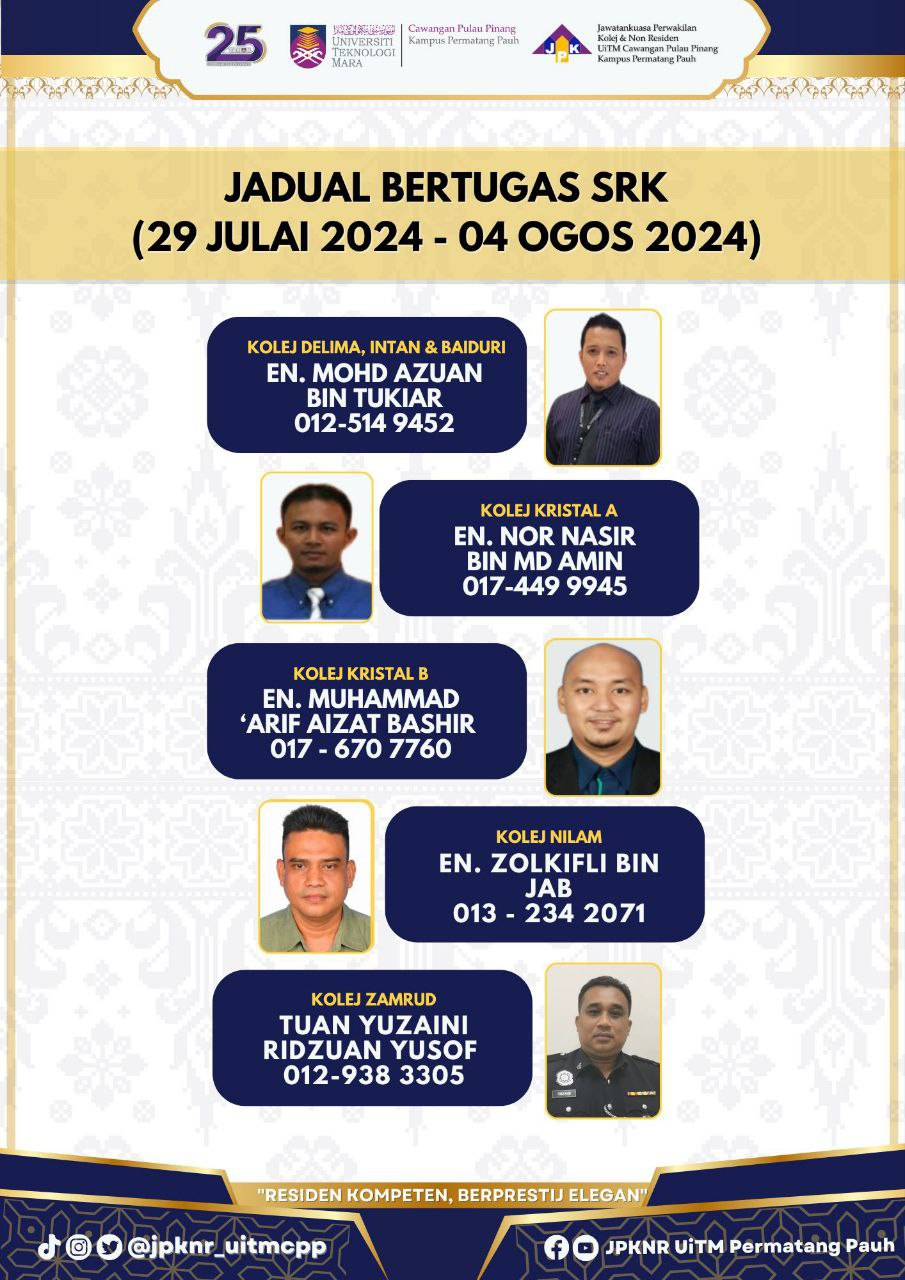
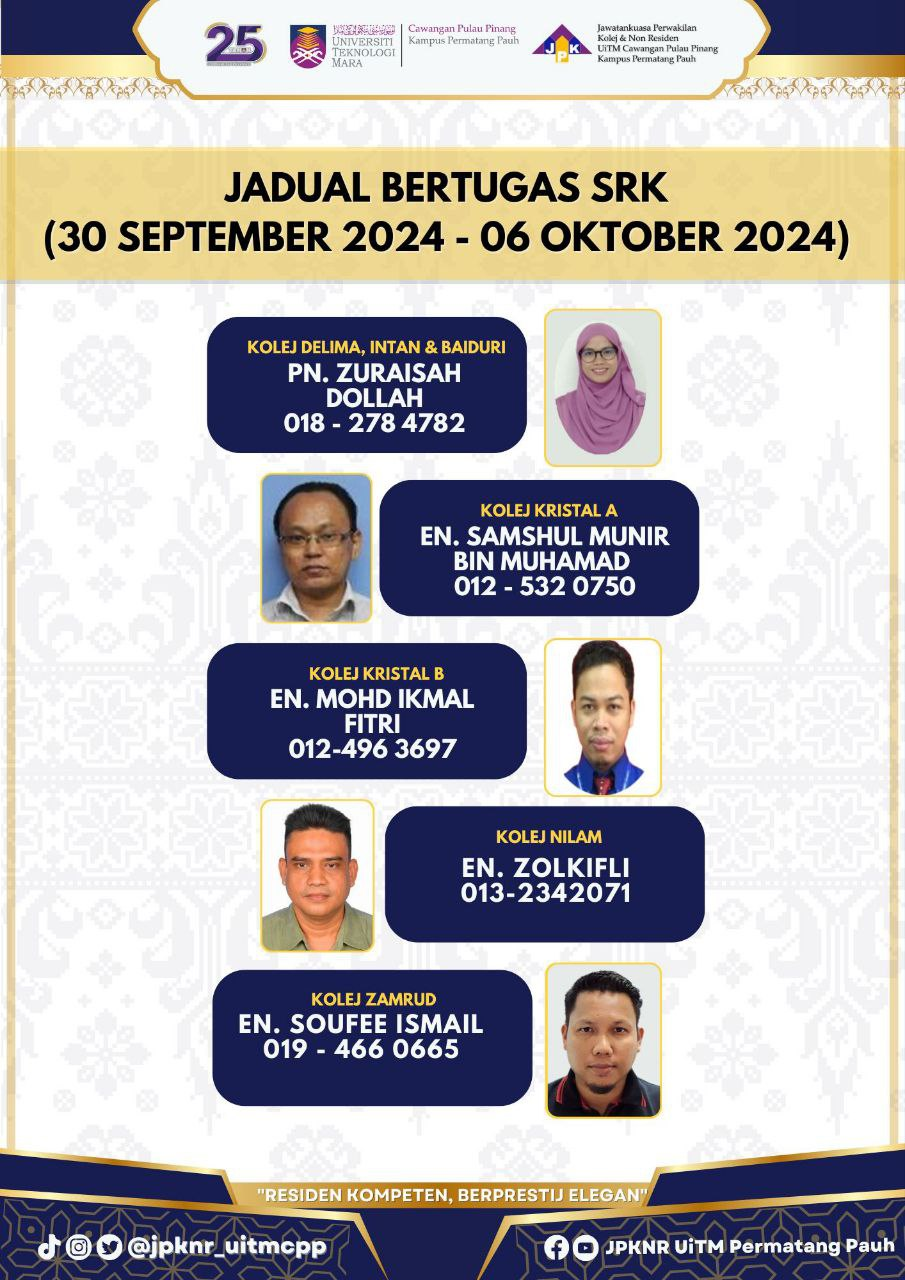
Add files via upload

diff --git a/index.html b/index.html
@@ -230,22 +230,22 @@
         </thead>
         <tbody>
             <tr>
-                <td>EN. MOHD AZUAN BIN TUKIAR</td>
+                <td>PN. ZURAISAH DOLLAH</td>
                 <td>DELIMA, INTAN & BAIDURI</td>
                 <td>5:00 PM - 8:00 AM</td>
-                <td><a id="profile-link-1" href="https://wa.me/60125149452" target="_blank">WhatsApp Me</a></td>
+                <td><a id="profile-link-1" href="https://wa.me/60182784782" target="_blank">WhatsApp Me</a></td>
             </tr>
             <tr>
-                <td>EN. NOR NASIR BIN MD AMIN</td>
+                <td>EN. SAMSHUL MUNIR BIN MUHAMAD</td>
                 <td>KRISTAL A</td>
                 <td>5:00 PM - 8:00 AM</td>
-                <td><a id="profile-link-2" href="https://wa.me/60174499945" target="_blank">WhatsApp Me</a></td>
+                <td><a id="profile-link-2" href="https://wa.me/60125320750" target="_blank">WhatsApp Me</a></td>
             </tr>
             <tr>
-                <td>EN. MUHAMMAD 'ARIF AIZAT BASHIR</td>
+                <td>EN. MOHD IKMAL FITRI</td>
                 <td>KRISTAL B</td>
                 <td>5:00 PM - 8:00 AM</td>
-                <td><a id="profile-link-3" href="https://wa.me/60176707760" target="_blank">WhatsApp Me</a></td>
+                <td><a id="profile-link-3" href="https://wa.me/60124963697" target="_blank">WhatsApp Me</a></td>
             </tr>
             <tr>
                 <td>EN. ZOLKIFLI BIN JAB</td>
@@ -254,10 +254,10 @@
                 <td><a id="profile-link-4" href="https://wa.me/60132342071" target="_blank">WhatsApp Me</a></td>
             </tr>
             <tr>
-                <td>TUAN YUZAINI RIDZUAN YUSOF</td>
+                <td>EN. SOUFEE ISMAIL</td>
                 <td>ZAMRUD</td>
                 <td>5:00 PM - 8:00 AM</td>
-                <td><a id="profile-link-5" href="https://wa.me/60129383305" target="_blank">WhatsApp Me</a></td>
+                <td><a id="profile-link-5" href="https://wa.me/60194660665" target="_blank">WhatsApp Me</a></td>
             </tr>
         </tbody>
     </table>
